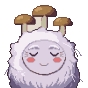
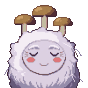
누룩 할매 초상화: 갓·대·머리로 둘러싸여 남던 배경 틈(베이지)을 지운다. 가장자리와 이어진 배경만 지우던 탓, 배경과 가까운 몸이 지워지지 않게 할매만 켬(0115 고침)
Claude-Session: https://claude.ai/code/session_01VNXEyeHwdhsn4oiHYXtNpM

diff --git a/tools/art/ai_portraits.py b/tools/art/ai_portraits.py
@@ -40,6 +40,8 @@ CHARACTERS = {
 }
 # 크림색 가슴이 원본 아래 끝에 닿는 캐릭터: 배경 지우기를 아래 끝에서 시작하지 않는다(_character_mask).
 CHEST_AT_BOTTOM = {'momo', 'momo_tainted', 'halmae'}
+# 몸에 둘러싸인 배경 틈을 지울 캐릭터(_clear_holes): 할매 갓·대 사이.
+HOLES = {'halmae'}
 # 틀 맞출 때 가슴 아래를 칸 밖으로 보내는 몫(잘린 가슴 = Naïl의 칸 밖으로 나간 앞발과 같은 틀).
 FIT_CUT = 0.02
 # 틀이 1보다 클 때 귀 끝 위에 남길 여백 몫.
@@ -212,6 +214,34 @@ def _tint_glow(img, mask, keep):
                 value = 0.42 if s < 0.12 else min(0.88, 0.62 + (v - 0.75))
                 r, g, b = colorsys.hsv_to_rgb(0.76, 0.42, value)
                 px[x, y] = (int(r * 255), int(g * 255), int(b * 255))
+
+
+def _clear_holes(img, mask, tol=20, min_area=200):
+    """캐릭터에 둘러싸여 가장자리와 이어지지 않은 배경 틈(배경색에 아주 가까운 덩어리)도 지운다.
+    할매 머리 위 갓·대 사이 틈이 베이지로 남았다(사장). 크림색 몸이 배경과 가까운 캐릭터(모모 가슴)는 지워지면 안 되니 HOLES에 든 캐릭터만."""
+    w, h = img.size
+    px = img.load()
+    corners = [px[0, 0], px[w - 1, 0], px[0, h // 2], px[w - 1, h // 2]]
+    bg = tuple(sum(c[i] for c in corners) // len(corners) for i in range(3))
+    near = lambda c: sum((c[i] - bg[i]) ** 2 for i in range(3)) <= tol * tol
+    seen = [[False] * w for _ in range(h)]
+    for y0 in range(h):
+        for x0 in range(w):
+            if seen[y0][x0] or not mask[y0][x0] or not near(px[x0, y0]):
+                continue
+            comp, stack = [], [(x0, y0)]
+            seen[y0][x0] = True
+            while stack:
+                x, y = stack.pop()
+                comp.append((x, y))
+                for (i, j) in ((1, 0), (-1, 0), (0, 1), (0, -1)):
+                    xx, yy = x + i, y + j
+                    if 0 <= xx < w and 0 <= yy < h and not seen[yy][xx] and mask[yy][xx] and near(px[xx, yy]):
+                        seen[yy][xx] = True
+                        stack.append((xx, yy))
+            if len(comp) >= min_area:
+                for (x, y) in comp:
+                    mask[y][x] = False
 
 
 def _shrink(img, mask):
@@ -408,6 +438,8 @@ def character(name):
             fix(img)
         images.append(img)
         mask = _character_mask(img, from_bottom=name not in CHEST_AT_BOTTOM)
+        if name in HOLES:
+            _clear_holes(img, mask)
         if name in HALO:
             _tint_glow(img, mask, HALO[name])
         masks.append(mask)

diff --git a/docs/decisions/0115-halmae-portraits.md b/docs/decisions/0115-halmae-portraits.md
@@ -6,6 +6,8 @@
 ## 결정(`tools/art/ai_portraits.py` `halmae`, `tools/art/sources/ai/halmae_{normal,happy}.png`)
 - 칸 15~16(평온 = 감은 눈·작은 미소, 기쁨 = 웃는 눈·조금 넓은 미소). 원본이 칸을 채워 틀은 그대로.
 - 몸이 칸 아래로 이어지고 흰 몸이 배경 베이지와 가까워, 아래 끝에서 배경을 번지지 않는다(`CHEST_AT_BOTTOM`, 0110).
+- **몸에 둘러싸인 배경 틈도 지운다**(`_clear_holes`, `HOLES`): 배경 지우기는 가장자리와 이어진 배경만 지워, 갓·대·머리로 막힌 왼쪽·가운데 대 사이 틈(원본 약 1.6만 점)이 베이지로 남았다(사장). 배경색에 아주 가까운(허용 20) 덩어리 가운데 200점 이상만 지운다. 모모의 크림색 가슴처럼 배경과 가까운 몸이 지워지지 않게 이 캐릭터만 켠다.
+  - 어두운 바탕 미리보기에서 대 색과 비슷해 놓쳤다. 줄인 칸을 볼 때 몸 안쪽의 배경색 덩어리도 따로 찾는다.
 - 시트에 없던 두 가지를 초상화 프롬프트에 넣었다: 눈가 주름(0049 사양 "늘 감은 눈과 눈가 주름"), 자두빛 바깥선(흰 몸이 배경과 갈리게).
 
 ## 고른 얼굴
